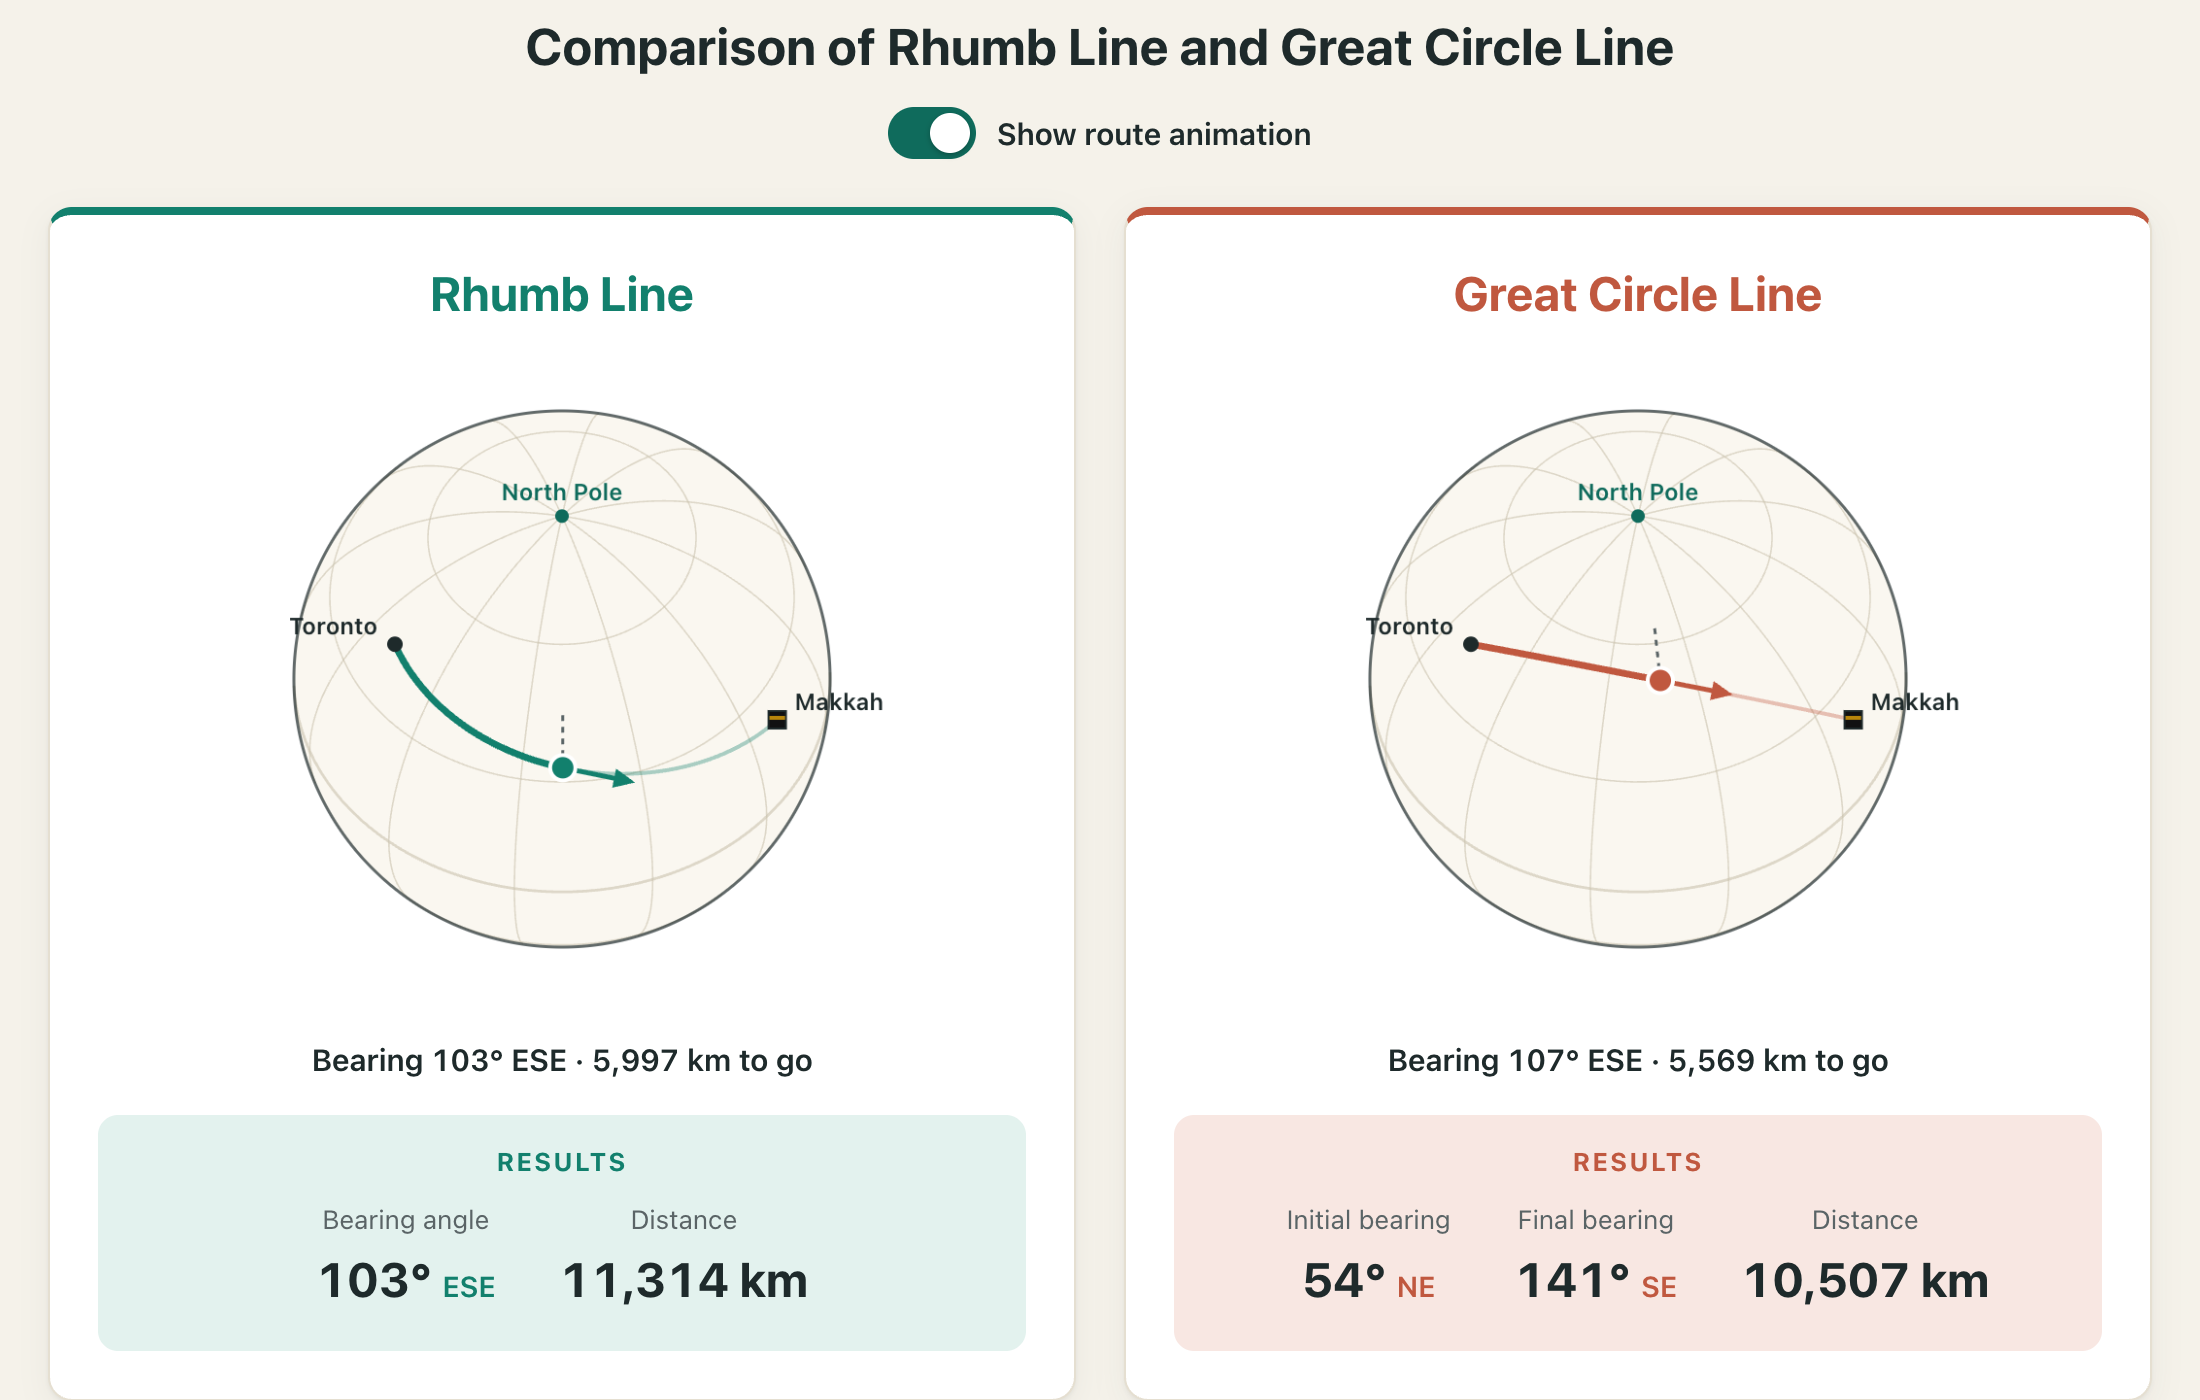
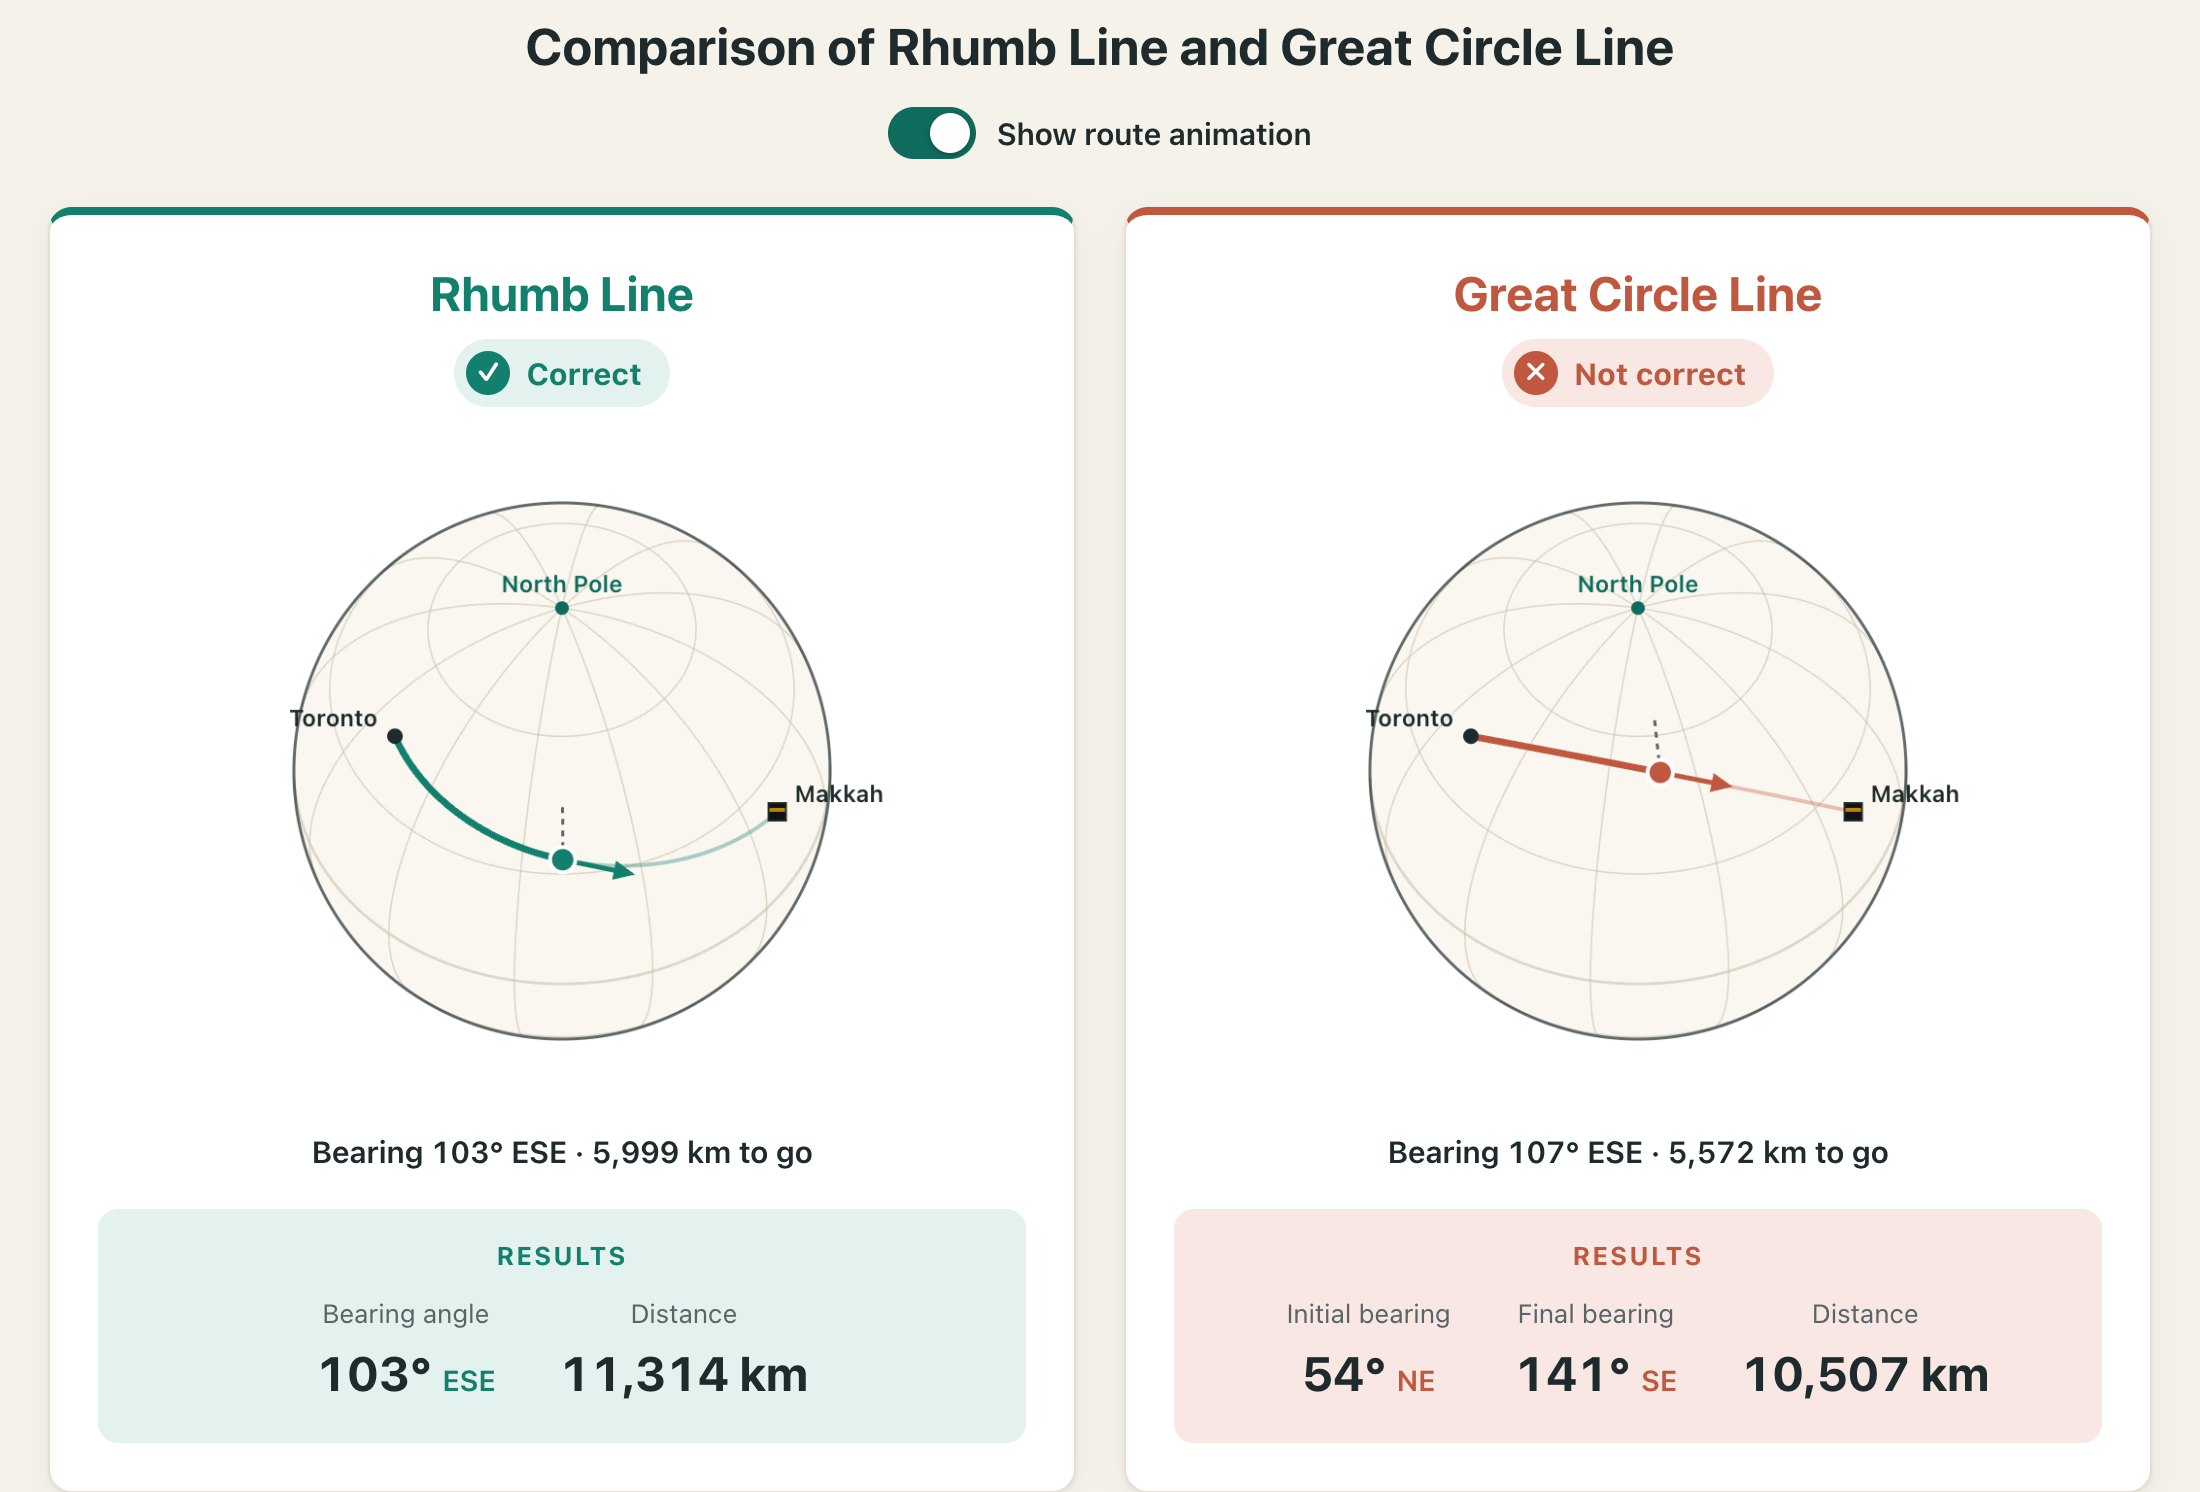
Label rhumb line as correct and great circle as not correct
- "✓ Correct" and "✗ Not correct" badges under each method's title,
  shown in both the compass and animation views
- Refresh README screenshot

diff --git a/web/index.html b/web/index.html
@@ -54,6 +54,7 @@
         <div class="compass-content route-rhumb">
             <div class="compass">
                 <h2>Rhumb Line</h2>
+                <p class="verdict verdict-correct"><span class="verdict-icon" aria-hidden="true">✓</span>Correct</p>
                 <div id="compass1"></div>
                 <div class="route-anim" id="anim1"></div>
             </div>
@@ -66,6 +67,7 @@
         <div class="compass-content route-gc">
             <div class="compass">
                 <h2>Great Circle Line</h2>
+                <p class="verdict verdict-wrong"><span class="verdict-icon" aria-hidden="true">✗</span>Not correct</p>
                 <div id="compass2"></div>
                 <div class="route-anim" id="anim2"></div>
             </div>

diff --git a/web/static/styles.css b/web/static/styles.css
@@ -329,6 +329,33 @@ button:hover {
     margin-bottom: 8px;
 }
 
+/* Correct / Not correct label under each method's title */
+.verdict {
+    display: inline-flex;
+    align-items: center;
+    gap: 8px;
+    margin: 0 0 12px;
+    padding: 5px 14px 5px 6px;
+    border-radius: 999px;
+    background: var(--route-soft);
+    color: var(--route);
+    font-size: 0.95rem;
+    font-weight: 700;
+    letter-spacing: 0.01em;
+}
+
+.verdict-icon {
+    display: inline-grid;
+    place-items: center;
+    width: 22px;
+    height: 22px;
+    border-radius: 50%;
+    background: var(--route);
+    color: var(--surface);
+    font-size: 0.85rem;
+    line-height: 1;
+}
+
 .compass canvas {
     display: block;
     width: 100%;
